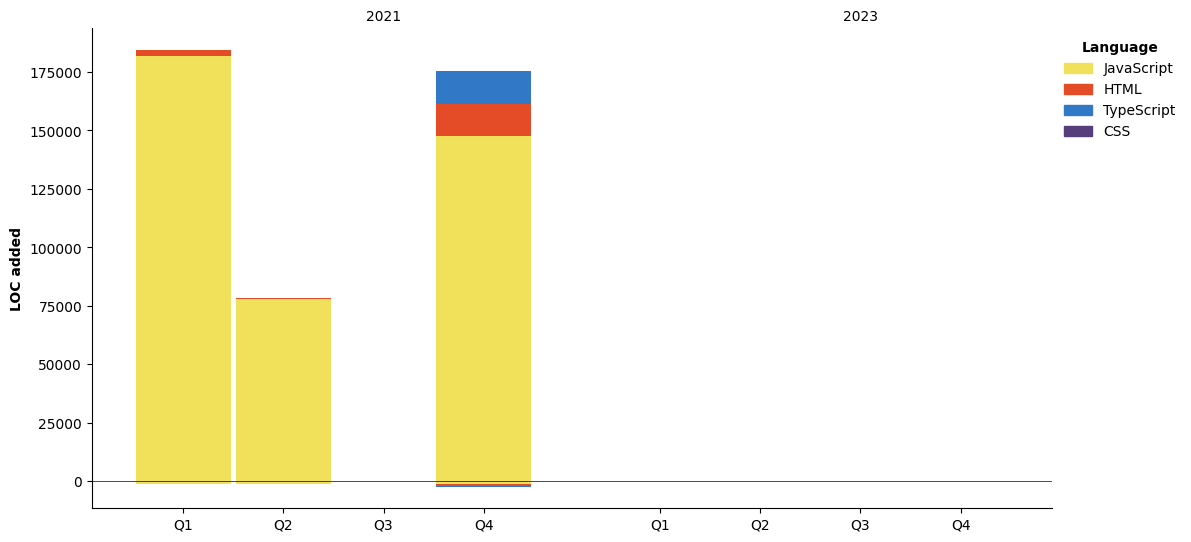
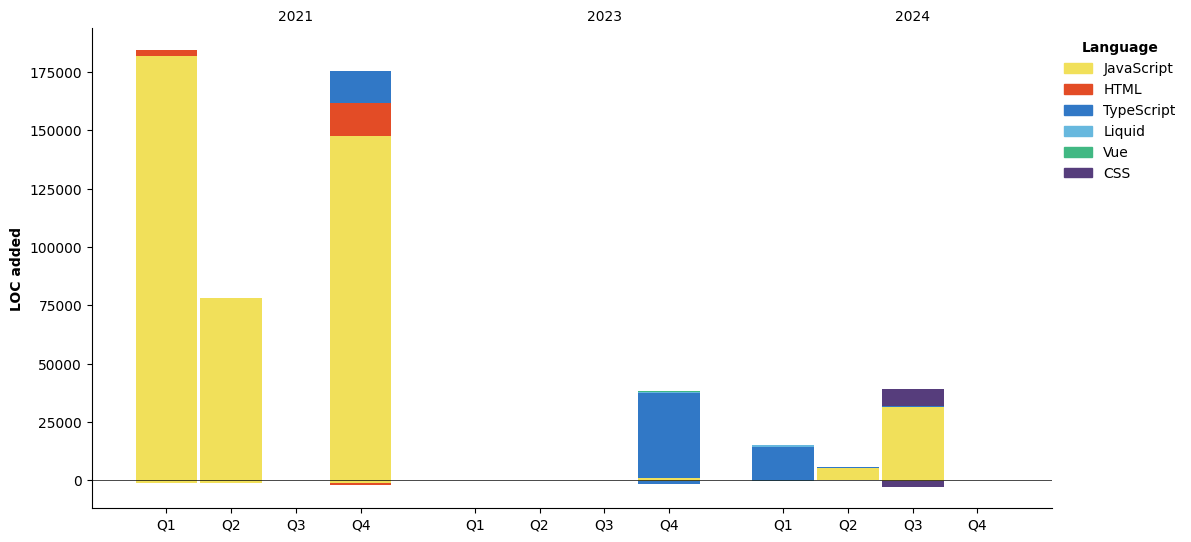
Updated with Dev Metrics

diff --git a/README.md b/README.md
@@ -63,7 +63,89 @@
   </tr>
   <tr>
   <!--START_SECTION:waka-->
-  <!--END_SECTION:waka-->
+![Code Time](http://img.shields.io/badge/Code%20Time-966%20hrs%2039%20mins-blue)
+
+![Profile Views](http://img.shields.io/badge/Profile%20Views-0-blue)
+
+![Lines of code](https://img.shields.io/badge/From%20Hello%20World%20I%27ve%20Written-535.5%20thousand%20lines%20of%20code-blue)
+
+**🐱 My GitHub Data** 
+
+> 📦 ? Used in GitHub's Storage 
+ > 
+> 🏆 143 Contributions in the Year 2024
+ > 
+> 💼 Opted to Hire
+ > 
+> 📜 176 Public Repositories 
+ > 
+> 🔑 0 Private Repositories 
+ > 
+**I'm a Night 🦉** 
+
+```text
+🌞 Morning                14 commits          █░░░░░░░░░░░░░░░░░░░░░░░░   02.75 % 
+🌆 Daytime                121 commits         ██████░░░░░░░░░░░░░░░░░░░   23.77 % 
+🌃 Evening                250 commits         ████████████░░░░░░░░░░░░░   49.12 % 
+🌙 Night                  124 commits         ██████░░░░░░░░░░░░░░░░░░░   24.36 % 
+```
+📅 **I'm Most Productive on Sunday** 
+
+```text
+Monday                   57 commits          ███░░░░░░░░░░░░░░░░░░░░░░   11.20 % 
+Tuesday                  51 commits          ███░░░░░░░░░░░░░░░░░░░░░░   10.02 % 
+Wednesday                38 commits          ██░░░░░░░░░░░░░░░░░░░░░░░   07.47 % 
+Thursday                 62 commits          ███░░░░░░░░░░░░░░░░░░░░░░   12.18 % 
+Friday                   67 commits          ███░░░░░░░░░░░░░░░░░░░░░░   13.16 % 
+Saturday                 55 commits          ███░░░░░░░░░░░░░░░░░░░░░░   10.81 % 
+Sunday                   179 commits         █████████░░░░░░░░░░░░░░░░   35.17 % 
+```
+
+
+📊 **This Week I Spent My Time On** 
+
+```text
+🕑 Time Zone: Asia/Dhaka
+
+💬 Programming Languages: 
+TypeScript               19 hrs 41 mins      ████████████████░░░░░░░░░   65.40 % 
+Python                   9 hrs 53 mins       ████████░░░░░░░░░░░░░░░░░   32.83 % 
+Markdown                 27 mins             ░░░░░░░░░░░░░░░░░░░░░░░░░   01.52 % 
+JSON                     2 mins              ░░░░░░░░░░░░░░░░░░░░░░░░░   00.13 % 
+Other                    1 min               ░░░░░░░░░░░░░░░░░░░░░░░░░   00.07 % 
+
+🔥 Editors: 
+VS Code                  30 hrs 6 mins       █████████████████████████   100.00 % 
+
+🐱💻 Projects: 
+js                       29 hrs 5 mins       ████████████████████████░   96.60 % 
+vs-code-automated-code-ty33 mins             ░░░░░░░░░░░░░░░░░░░░░░░░░   01.88 % 
+2.programmer-need        26 mins             ░░░░░░░░░░░░░░░░░░░░░░░░░   01.46 % 
+Unknown Project          1 min               ░░░░░░░░░░░░░░░░░░░░░░░░░   00.06 % 
+
+💻 Operating System: 
+Windows                  30 hrs 6 mins       █████████████████████████   100.00 % 
+```
+
+**I Mostly Code in JavaScript** 
+
+```text
+JavaScript               113 repos           ██████████████░░░░░░░░░░░   54.59 % 
+CSS                      27 repos            ███░░░░░░░░░░░░░░░░░░░░░░   13.04 % 
+TypeScript               12 repos            █░░░░░░░░░░░░░░░░░░░░░░░░   05.80 % 
+Vue                      12 repos            █░░░░░░░░░░░░░░░░░░░░░░░░   05.80 % 
+Liquid                   3 repos             ░░░░░░░░░░░░░░░░░░░░░░░░░   01.45 % 
+```
+
+
+
+**Timeline**
+
+![Lines of Code chart](https://raw.githubusercontent.com/younusaliakash/younusaliakash/master/assets/bar_graph.png)
+
+
+ Last Updated on 05/10/2024 09:45:47 UTC
+<!--END_SECTION:waka-->
   </tr>
   <!-- <tr>
     <td align="center" width="50%">
